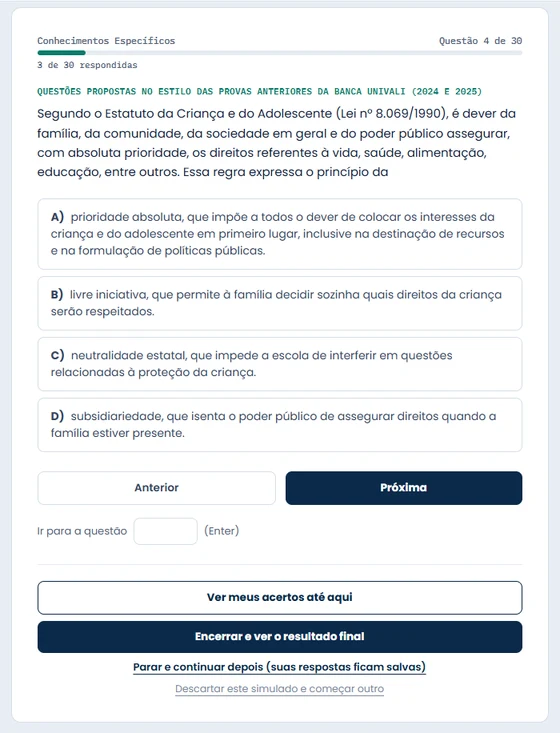
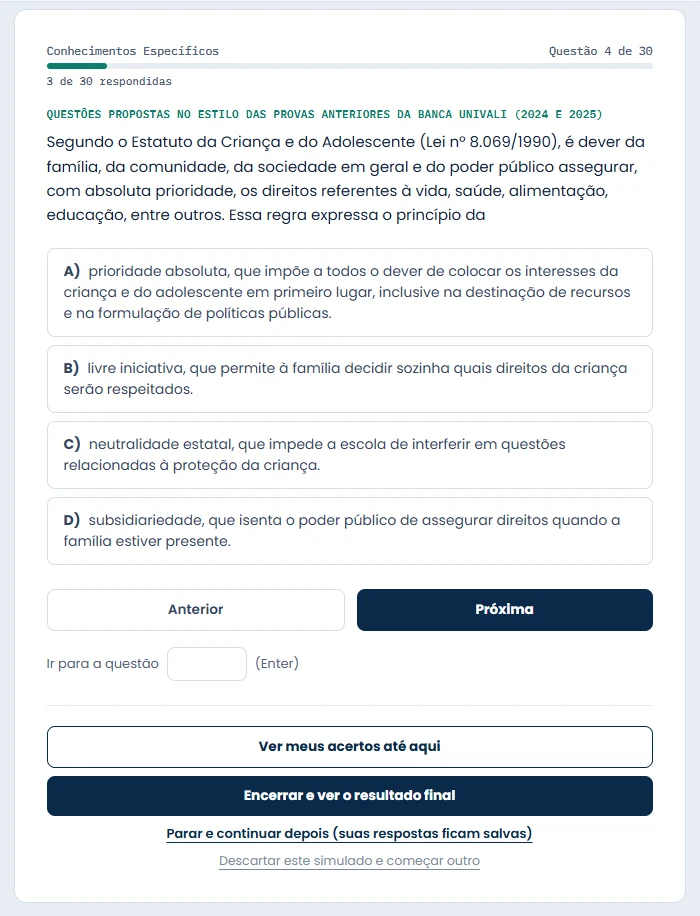
Hero: imagens do carrossel maiores (#45)
* Hero: imagens do carrossel bem maiores (mockups e tela do simulado), webp em resolução maior

* Hero: imagens ainda maiores em telas largas (2xl) e área do hero mais larga

* Hero: imagens maiores em todos os tamanhos e menu da home sem duplicidade

---------

diff --git a/src/components/carrossel-home.tsx b/src/components/carrossel-home.tsx
@@ -147,7 +147,7 @@ function Slide({
             "radial-gradient(circle, rgba(255,214,102,0.5) 0%, rgba(120,190,255,0.35) 45%, transparent 70%)",
         }}
       />
-      <div className="relative mx-auto grid w-full max-w-[1180px] items-center gap-6 px-6 pb-14 pt-8 md:grid-cols-[1.15fr_0.85fr] md:gap-10 md:py-12">
+      <div className="relative mx-auto grid w-full max-w-[1180px] items-center 2xl:max-w-[1480px] gap-6 px-6 pb-14 pt-8 md:grid-cols-[0.9fr_1.1fr] md:gap-8 md:py-12">
         {slide.id === "metodo" && <Metodo prioridade={indice === 0} />}
         {slide.id === "apostila" && <Apostila precoTexto={precoTexto} />}
         {slide.id === "simulado" && <Simulado />}
@@ -166,7 +166,7 @@ function Rotulo({ children }: { children: React.ReactNode }) {
 
 function Titulo({ children }: { children: React.ReactNode }) {
   return (
-    <h2 className="font-display text-[1.6rem] leading-[1.1] font-extrabold tracking-tight text-balance sm:text-[2.1rem] md:text-[2.5rem]">
+    <h2 className="font-display text-[1.6rem] leading-[1.1] font-extrabold tracking-tight text-balance sm:text-[2.1rem] md:text-[2.5rem] 2xl:text-[3.1rem]">
       {children}
     </h2>
   );
@@ -241,15 +241,15 @@ function Metodo({ prioridade }: { prioridade: boolean }) {
           <BotaoSecundario href="#metodo">Conheça o método</BotaoSecundario>
         </div>
       </div>
-      <div aria-hidden className="relative justify-self-center">
+      <div aria-hidden className="relative h-[250px] justify-self-center overflow-hidden md:h-[450px] lg:h-[540px] xl:h-[640px] 2xl:h-[780px]">
         <Image
           src="/hero-mockup-curitiba.webp"
           alt=""
-          width={402}
-          height={720}
+          width={558}
+          height={1000}
           priority={prioridade}
-          sizes="290px"
-          className="h-auto w-[104px] rotate-[3deg] drop-shadow-[0_18px_40px_rgba(0,0,0,0.45)] md:w-[230px] lg:w-[270px]"
+          sizes="(min-width: 1024px) 380px, (min-width: 768px) 300px, 150px"
+          className="h-auto w-[150px] rotate-[3deg] drop-shadow-[0_18px_40px_rgba(0,0,0,0.45)] md:w-[270px] lg:w-[330px] xl:w-[420px] 2xl:w-[520px]"
         />
       </div>
     </>
@@ -278,30 +278,30 @@ function Apostila({ precoTexto }: { precoTexto: string }) {
           <span className="font-data text-[13px] font-semibold text-[#D7E6F7]">{precoTexto}</span>
         </div>
       </div>
-      <div aria-hidden className="relative flex items-end justify-center justify-self-center">
+      <div aria-hidden className="relative flex items-end justify-center justify-self-center xl:-mr-10">
         <Image
           src="/hero-mockup-itajai.webp"
           alt=""
-          width={481}
-          height={720}
-          sizes="170px"
-          className="relative z-10 -mr-4 h-auto w-[78px] -rotate-[4deg] drop-shadow-[0_14px_30px_rgba(0,0,0,0.45)] md:-mr-6 md:w-[150px] lg:w-[170px]"
+          width={668}
+          height={1000}
+          sizes="(min-width: 1024px) 200px, (min-width: 768px) 125px, 110px"
+          className="relative z-10 -mr-5 h-auto w-[110px] -rotate-[4deg] drop-shadow-[0_14px_30px_rgba(0,0,0,0.45)] md:-mr-6 md:w-[130px] lg:-mr-8 lg:w-[175px] xl:-mr-10 xl:w-[240px] 2xl:-mr-14 2xl:w-[320px]"
         />
         <Image
           src="/hero-mockup-curitiba.webp"
           alt=""
-          width={402}
-          height={720}
-          sizes="200px"
-          className="relative z-20 h-auto w-[92px] drop-shadow-[0_18px_40px_rgba(0,0,0,0.5)] md:w-[170px] lg:w-[200px]"
+          width={558}
+          height={1000}
+          sizes="(min-width: 1024px) 265px, (min-width: 768px) 165px, 130px"
+          className="relative z-20 h-auto w-[130px] drop-shadow-[0_18px_40px_rgba(0,0,0,0.5)] md:w-[180px] lg:w-[240px] xl:w-[320px] 2xl:w-[430px]"
         />
         <Image
           src="/hero-mockup-amapa.webp"
           alt=""
-          width={478}
-          height={720}
-          sizes="170px"
-          className="relative z-10 -ml-4 h-auto w-[78px] rotate-[4deg] drop-shadow-[0_14px_30px_rgba(0,0,0,0.45)] md:-ml-6 md:w-[150px] lg:w-[170px]"
+          width={664}
+          height={1000}
+          sizes="(min-width: 1024px) 200px, (min-width: 768px) 125px, 110px"
+          className="relative z-10 -ml-5 h-auto w-[110px] rotate-[4deg] drop-shadow-[0_14px_30px_rgba(0,0,0,0.45)] md:-ml-6 md:w-[130px] lg:-ml-8 lg:w-[175px] xl:-ml-10 xl:w-[240px] 2xl:-ml-14 2xl:w-[320px]"
         />
       </div>
     </>
@@ -331,14 +331,14 @@ function Simulado() {
         </div>
       </div>
       <div aria-hidden className="relative justify-self-center">
-        <div className="w-[230px] md:w-[280px] overflow-hidden rounded-2xl border border-white/30 bg-white shadow-[0_18px_50px_rgba(0,0,0,0.45),0_0_40px_rgba(255,214,102,0.25)] lg:w-[320px]">
+        <div className="w-[300px] overflow-hidden md:w-[380px] lg:w-[460px] xl:w-[560px] 2xl:w-[700px] rounded-2xl border border-white/30 bg-white shadow-[0_18px_50px_rgba(0,0,0,0.45),0_0_40px_rgba(255,214,102,0.25)]">
           <Image
             src="/hero-simulado.webp"
             alt=""
-            width={560}
-            height={733}
-            sizes="320px"
-            className="h-[130px] w-full object-cover object-top md:h-[300px] lg:h-[340px]"
+            width={700}
+            height={916}
+            sizes="(min-width: 1024px) 470px, (min-width: 768px) 400px, 300px"
+            className="h-[190px] w-full object-cover object-top md:h-[380px] lg:h-[460px] xl:h-[540px] 2xl:h-[660px]"
           />
         </div>
       </div>

diff --git a/src/components/site-chrome.tsx b/src/components/site-chrome.tsx
@@ -5,7 +5,7 @@ import { sairDaConta } from "@/app/login/actions";
 import { BotaoPreferenciasCookies } from "@/components/cookies-consentimento";
 import { EMISSOR } from "@/lib/emissor";
 
-export function CabecalhoSite({ logado, next }: { logado: boolean; next?: string }) {
+export function CabecalhoSite({ logado, next, semLinks }: { logado: boolean; next?: string; semLinks?: boolean }) {
   const itemNav = "px-1.5 py-2 sm:px-2 text-[#33465E] transition-colors hover:text-brand";
   return (
     <header className="border-b-[3px] border-accent bg-white">
@@ -22,18 +22,22 @@ export function CabecalhoSite({ logado, next }: { logado: boolean; next?: string
         </Link>
 
         <nav className="flex min-w-0 items-center gap-0 text-[13px] font-semibold whitespace-nowrap sm:gap-3 sm:text-sm">
-          <Link href="/apostilas" className={itemNav}>
-            Apostilas
-          </Link>
-          <Link href="/noticias" className={`${logado ? "hidden sm:inline" : ""} ${itemNav}`}>
-            Notícias
-          </Link>
-          <Link href="/cursos" className={`hidden md:inline ${itemNav}`}>
-            Cursos gratuitos
-          </Link>
-          <Link href="/validar" className={`hidden lg:inline ${itemNav}`}>
-            Validar certificado
-          </Link>
+          {!semLinks && (
+            <>
+              <Link href="/apostilas" className={itemNav}>
+                Apostilas
+              </Link>
+              <Link href="/noticias" className={`${logado ? "hidden sm:inline" : ""} ${itemNav}`}>
+                Notícias
+              </Link>
+              <Link href="/cursos" className={`hidden md:inline ${itemNav}`}>
+                Cursos gratuitos
+              </Link>
+              <Link href="/validar" className={`hidden lg:inline ${itemNav}`}>
+                Validar certificado
+              </Link>
+            </>
+          )}
           <Link
             href={logado ? "/minha-area" : next ? `/login?next=${encodeURIComponent(next)}` : "/login"}
             className="ml-1 rounded-md bg-brand px-3 py-2 sm:px-4 text-white transition-colors hover:brightness-125"

diff --git a/src/app/page.tsx b/src/app/page.tsx
@@ -55,7 +55,7 @@ export default async function Home() {
         </div>
       )}
 
-      <CabecalhoSite logado={!!user} />
+      <CabecalhoSite logado={!!user} semLinks />
 
       <MenuAncora />
 
@@ -340,6 +340,7 @@ const ANCORAS: [string, string][] = [
   ["Simulado online", "#simulado-online"],
   ["Cursos gratuitos", "#cursos-gratuitos"],
   ["Sobre", "#sobre"],
+  ["Validar certificado", "/validar"],
 ];
 
 // Menu de âncoras da home. Cada item leva a uma seção da página e serve de
